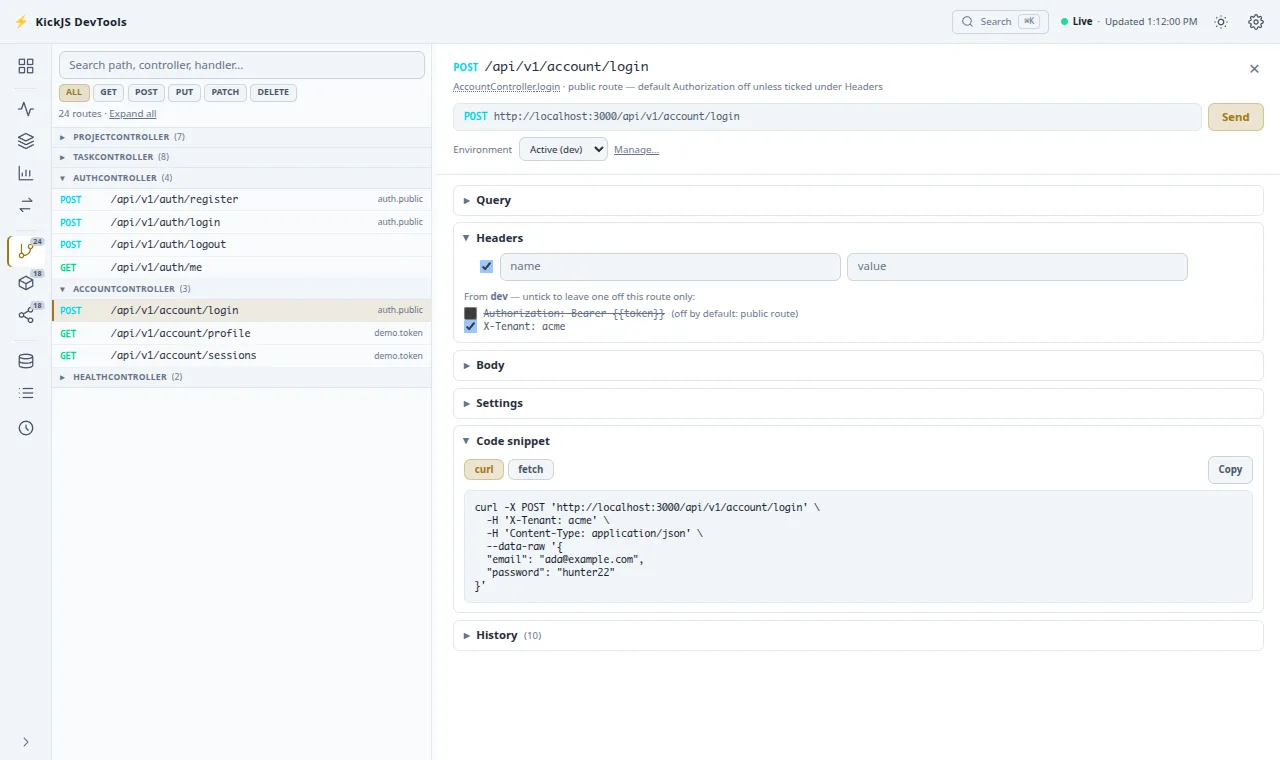
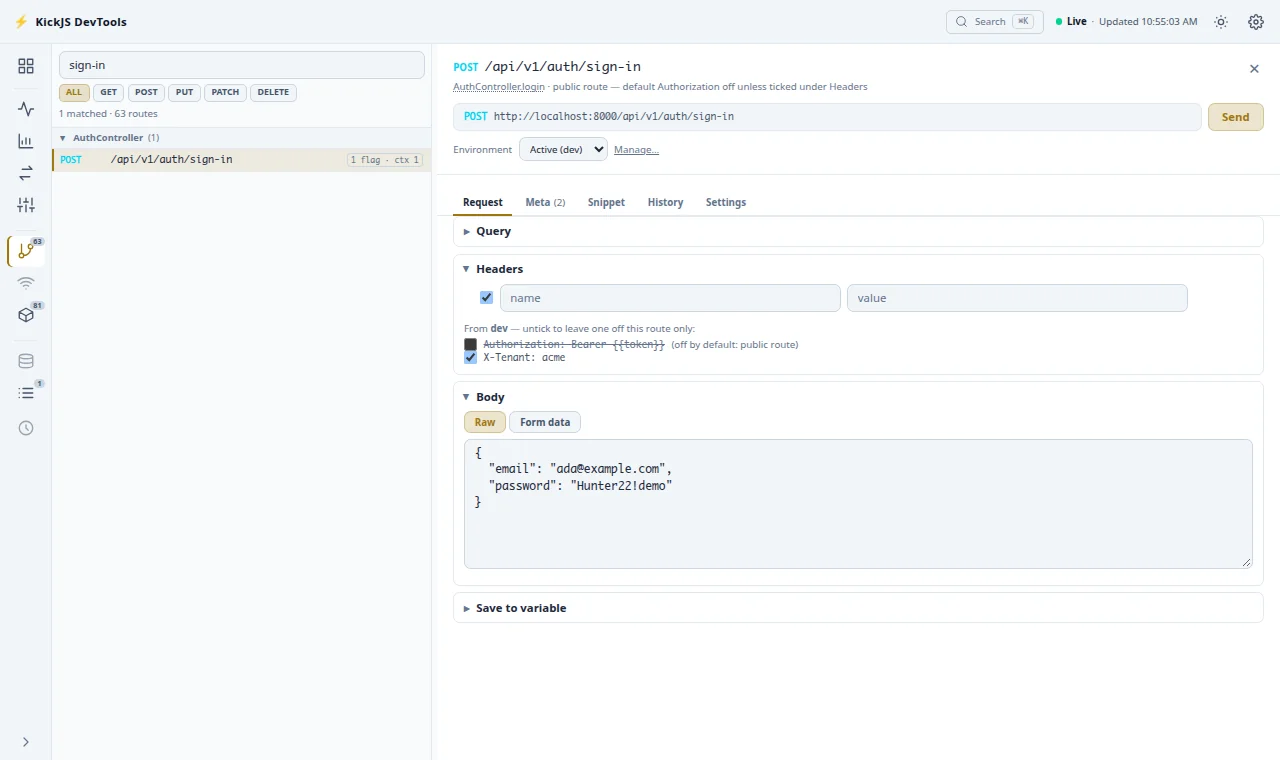
docs(devtools): retake the API runner screenshots
The runner moved to Request / Meta / Snippet / History / Settings tabs and
the environment sheet gained its save hint; the images showed the old
layout. Captions follow what each image now shows.

diff --git a/docs/guide/devtools.md b/docs/guide/devtools.md
@@ -532,7 +532,7 @@ Selecting a route on the Routes tab opens the runner beside the list — drag th
 - **Response** — status, time, headers and the body (JSON pretty-printed). Hover the body for **Copy**: the whole body, formatted, even when the view is truncated.
 - **History** — the last 30 requests across all routes, with status and time. Click one to reopen its route with the inputs it was sent with. Entries keep `{{variables}}` as written, not their values.
 
-![The login route's Headers: the environment's Authorization starts unticked on a public route, X-Tenant is sent, and the curl snippet shows only what is sent](./images/devtools/route-defaults.webp)
+![The sign-in route's Headers: on a public route the environment's Authorization starts unticked, and X-Tenant is sent](./images/devtools/route-defaults.webp)
 
 The header names the handler (`UsersController.list`): click it to **open the handler in your editor**. The dashboard asks the app where the class is declared under `src/`, then follows a `vscode://file{file}:{line}` link. For another editor, change **Editor link** under _Settings_ — e.g. `cursor://file{file}:{line}`, `windsurf://file{file}:{line}`, or `idea://open?file={file}&line={line}`.
 
@@ -557,7 +557,7 @@ One environment is **active**; the runner's picker can **pin** a route to anothe
 - **Save to variable** in a route's runner reads a JSON path (`accessToken`, `data.token`, `items[0].id`) and sets a variable in the environment the route uses — log in under `admin` and only `admin` gets the token. It belongs to the route: once set on your login route, every 2xx response from it saves the variable again, and other routes don't carry it. **Save now** copies from the response on screen. A saved variable starts out secret.
 - Together: on your login route, save `data.accessToken` as `token`, and with `Authorization: Bearer {{token}}` as a default header every route using that environment sends it (public routes only when ticked); logging in again updates it everywhere.
 
-![Animated: an environment with Authorization: Bearer {{token}} as a default header; the login route's response saved to {{token}} with Save to variable; then the profile route sent with the token filled in, answering 200](./images/devtools/login-flow.webp)
+![Animated: an environment with Authorization: Bearer {{token}} as a default header; the sign-in route's jwt saved to {{token}} with Save to variable; then the profile route sent with Authorization ticked, answering 200](./images/devtools/login-flow.webp)
 
 ![The token variable marked secret, shown with the eye and opened in full with the expand button](./images/devtools/secrets.webp)
 
